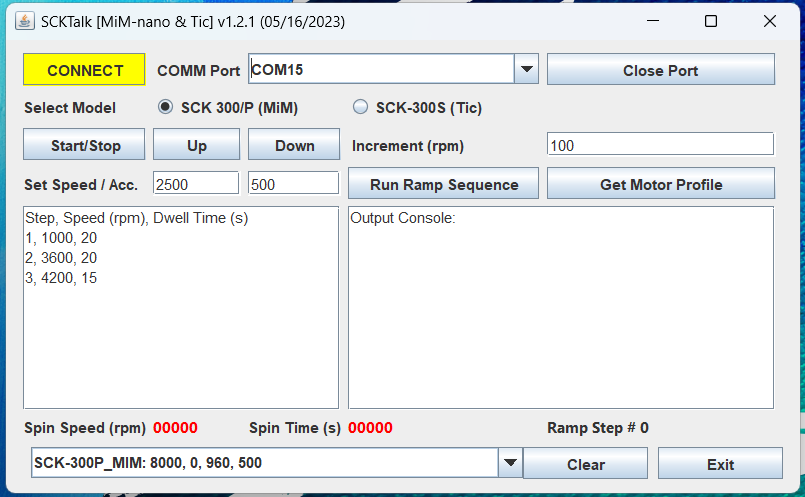
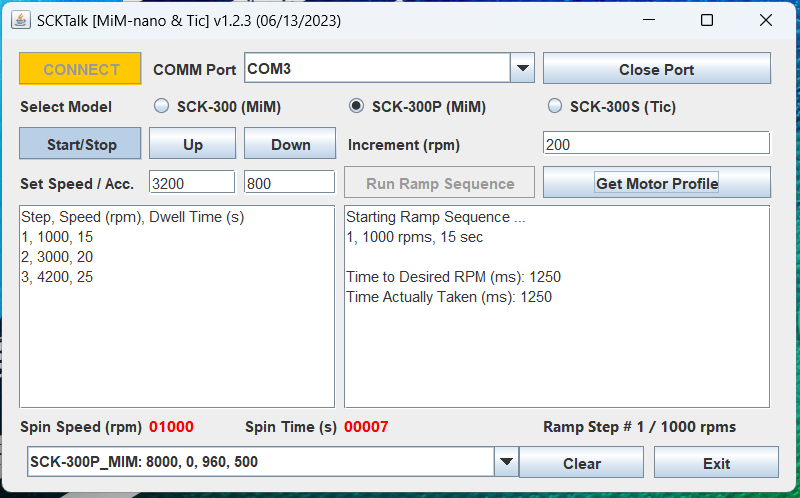
Additional bug fixes for version 1.2.3

Changed region(s): [[0.0, 0.0, 1.0, 1.0]]

diff --git a/src/org/instras/sck/SCKTalkFrame.java b/src/org/instras/sck/SCKTalkFrame.java
@@ -76,8 +76,10 @@ public class SCKTalkFrame extends JFrame {
 
             portComboBox.setSelectedItem(properties.getProperty("comm.port"));
 
-            if(properties.getProperty("sck.model").equals("mim")) {
-                mimModelRadioButton.doClick();
+            if(properties.getProperty("sck.model").equals("sck300")) {
+                sck300ModelRadioButton.doClick();
+            } else if(properties.getProperty("sck.model").equals("sck300P")) {
+                sck300PModelRadioButton.doClick();
             } else {
                 ticModelRadioButton.doClick();
             }
@@ -105,7 +107,15 @@ public class SCKTalkFrame extends JFrame {
             String commPort = portComboBox.getSelectedItem().toString();
             properties.setProperty("comm.port", commPort);
 
-            String sckModel = mimModelRadioButton.isSelected() ? "mim" : "tic";
+            String sckModel;
+            if(sck300ModelRadioButton.isSelected()) {
+                sckModel = "sck300";
+            } else if(sck300PModelRadioButton.isSelected()) {
+                sckModel = "sck300P";
+            } else {
+                sckModel = "sck300S";
+            }
+
             properties.setProperty("sck.model", sckModel);
 
             String speed  = speedTextField.getText();
@@ -153,7 +163,7 @@ public class SCKTalkFrame extends JFrame {
 
         try {
             consoleTextArea.setText("Connecting to SCK ...\n");
-            if(mimModelRadioButton.isSelected()) {
+            if(sck300ModelRadioButton.isSelected() || sck300PModelRadioButton.isSelected()) {
                 connectToMiM(portName);
             } else {
                 connectToTic(portName);
@@ -871,7 +881,12 @@ public class SCKTalkFrame extends JFrame {
      * @param e
      */
     private void mimModel(ActionEvent e) {
-        sckComboBox.setSelectedIndex(1);
+        if(sck300ModelRadioButton.isSelected()) {
+            sckComboBox.setSelectedIndex(0);
+        } else {
+            // must be an SCK-300P
+            sckComboBox.setSelectedIndex(1);
+        }
     }
 
     private void initComponents() {
@@ -884,7 +899,8 @@ public class SCKTalkFrame extends JFrame {
         portComboBox = new JComboBox<>();
         closePortButton = new JButton();
         label7 = new JLabel();
-        mimModelRadioButton = new JRadioButton();
+        sck300ModelRadioButton = new JRadioButton();
+        sck300PModelRadioButton = new JRadioButton();
         ticModelRadioButton = new JRadioButton();
         startStopButton = new JToggleButton();
         upButton = new JButton();
@@ -911,7 +927,7 @@ public class SCKTalkFrame extends JFrame {
         exitButton = new JButton();
 
         //======== this ========
-        setTitle("SCKTalk [MiM-nano & Tic] v1.2.3 (06/12/2023)");
+        setTitle("SCKTalk [MiM-nano & Tic] v1.2.3 (06/13/2023)");
         setDefaultCloseOperation(WindowConstants.DISPOSE_ON_CLOSE);
         addWindowListener(new WindowAdapter() {
             @Override
@@ -964,16 +980,21 @@ public class SCKTalkFrame extends JFrame {
                 label7.setText("Select Model");
                 contentPanel.add(label7, CC.xy(1, 3));
 
-                //---- mimModelRadioButton ----
-                mimModelRadioButton.setText("SCK 300/P (MiM)");
-                mimModelRadioButton.setSelected(true);
-                mimModelRadioButton.addActionListener(e -> mimModel(e));
-                contentPanel.add(mimModelRadioButton, CC.xywh(3, 3, 3, 1));
+                //---- sck300ModelRadioButton ----
+                sck300ModelRadioButton.setText("SCK-300 (MiM)");
+                sck300ModelRadioButton.addActionListener(e -> mimModel(e));
+                contentPanel.add(sck300ModelRadioButton, CC.xywh(3, 3, 3, 1));
+
+                //---- sck300PModelRadioButton ----
+                sck300PModelRadioButton.setText("SCK-300P (MiM)");
+                sck300PModelRadioButton.setSelected(true);
+                sck300PModelRadioButton.addActionListener(e -> mimModel(e));
+                contentPanel.add(sck300PModelRadioButton, CC.xy(7, 3));
 
                 //---- ticModelRadioButton ----
                 ticModelRadioButton.setText("SCK-300S (Tic)");
                 ticModelRadioButton.addActionListener(e -> ticModel(e));
-                contentPanel.add(ticModelRadioButton, CC.xy(7, 3));
+                contentPanel.add(ticModelRadioButton, CC.xy(9, 3));
 
                 //---- startStopButton ----
                 startStopButton.setText("Start/Stop");
@@ -1104,7 +1125,8 @@ public class SCKTalkFrame extends JFrame {
 
         //---- buttonGroup1 ----
         ButtonGroup buttonGroup1 = new ButtonGroup();
-        buttonGroup1.add(mimModelRadioButton);
+        buttonGroup1.add(sck300ModelRadioButton);
+        buttonGroup1.add(sck300PModelRadioButton);
         buttonGroup1.add(ticModelRadioButton);
         // JFormDesigner - End of component initialization  //GEN-END:initComponents
     }
@@ -1118,7 +1140,8 @@ public class SCKTalkFrame extends JFrame {
     private JComboBox<String> portComboBox;
     private JButton closePortButton;
     private JLabel label7;
-    private JRadioButton mimModelRadioButton;
+    private JRadioButton sck300ModelRadioButton;
+    private JRadioButton sck300PModelRadioButton;
     private JRadioButton ticModelRadioButton;
     private JToggleButton startStopButton;
     private JButton upButton;
